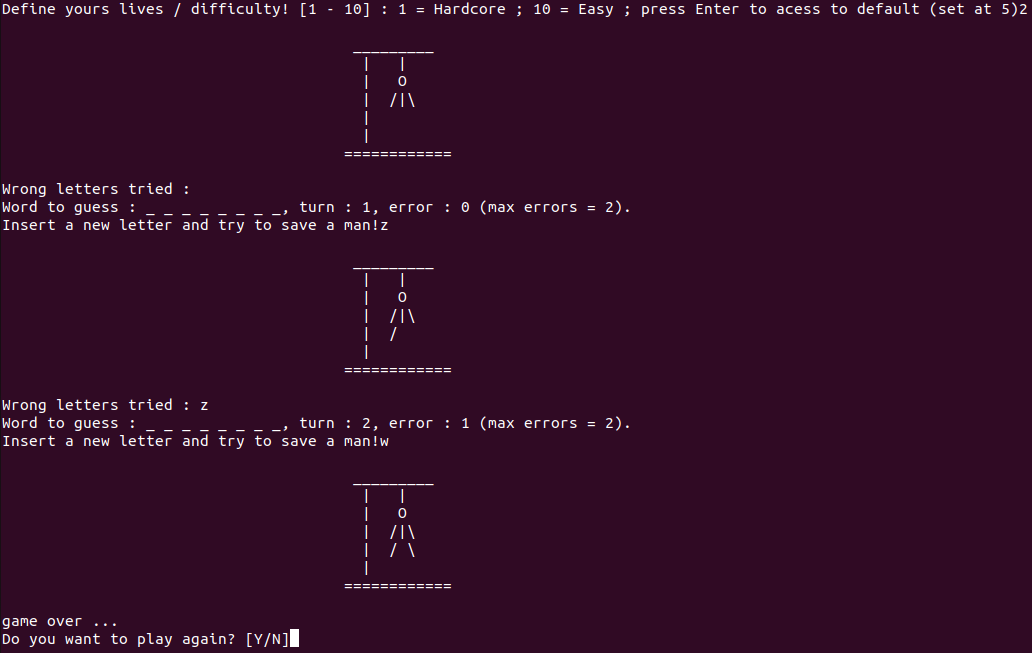
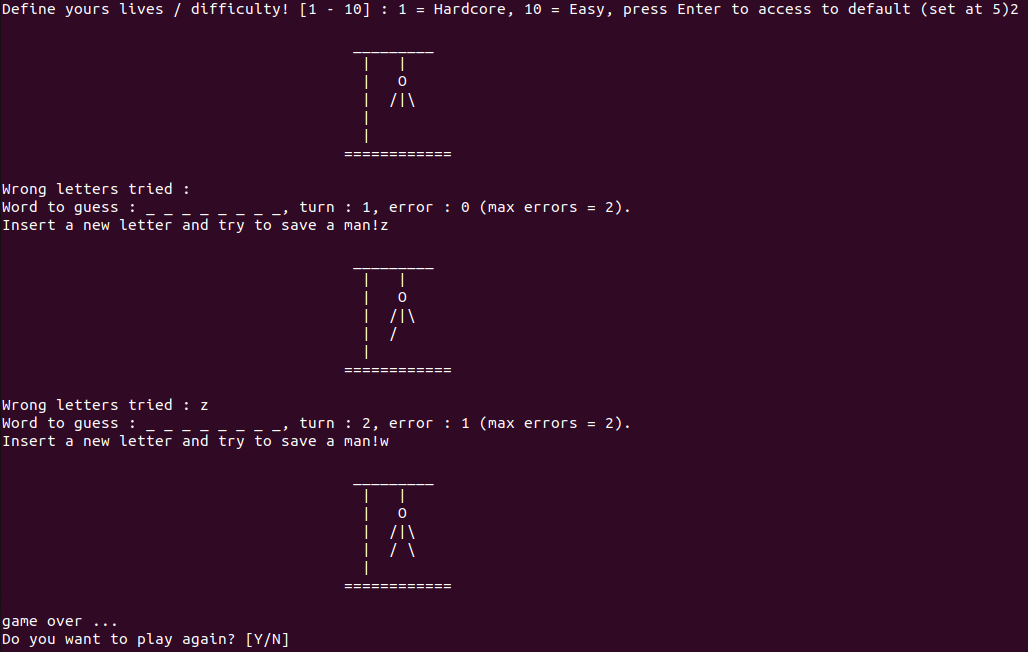
"typos corrections"

diff --git a/main.py b/main.py
@@ -5,10 +5,10 @@ the main.py file launch the Hangman game, allow the player to set the difficulty
 """
 
 while True : 
-    difficulty = input("Define yours lives / difficulty! [1 - 10] : 1 = Hardcore ; 10 = Easy ; press Enter to acess to default (set at 5)")
+    difficulty = input("Define yours lives / difficulty! [1 - 10] : 1 = Hardcore, 10 = Easy, press Enter to access to default (set at 5)")
 
     while difficulty != "" and difficulty not in [str(value) for value in range(1,11)] :
-        difficulty = input("Define yours lives / difficulty! [1 - 10] : 1 = Hardcore ; 10 = Easy ; press Enter to acess to default (set at 5) ...")
+        difficulty = input("Define yours lives / difficulty! [1 - 10] : 1 = Hardcore, 10 = Easy, press Enter to access to default (set at 5) ...")
 
     if difficulty == "" :
         game = Hangman()
